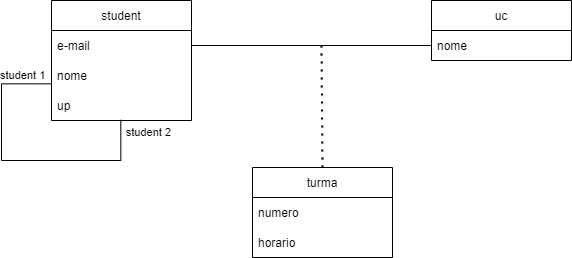
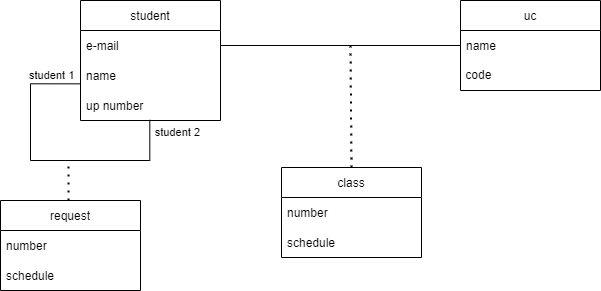
uml

diff --git a/lib/week 2/doc.md b/lib/week 2/doc.md
@@ -10,3 +10,7 @@ To create one admin (SuperUser) it was used:
 Username: admin
 E-mail address: lmpa.pt@gmail.com
 Password: luisaaraujo
+
+## UML
+
+![uml](uml.png)

diff --git a/README.md b/README.md
@@ -49,4 +49,4 @@ https://dev.to/mungaigikure/how-to-set-up-postgres-in-your-django-project-575i
 
 ## Dúvidas (temporary)
 
-
+- Check if uml is correct
